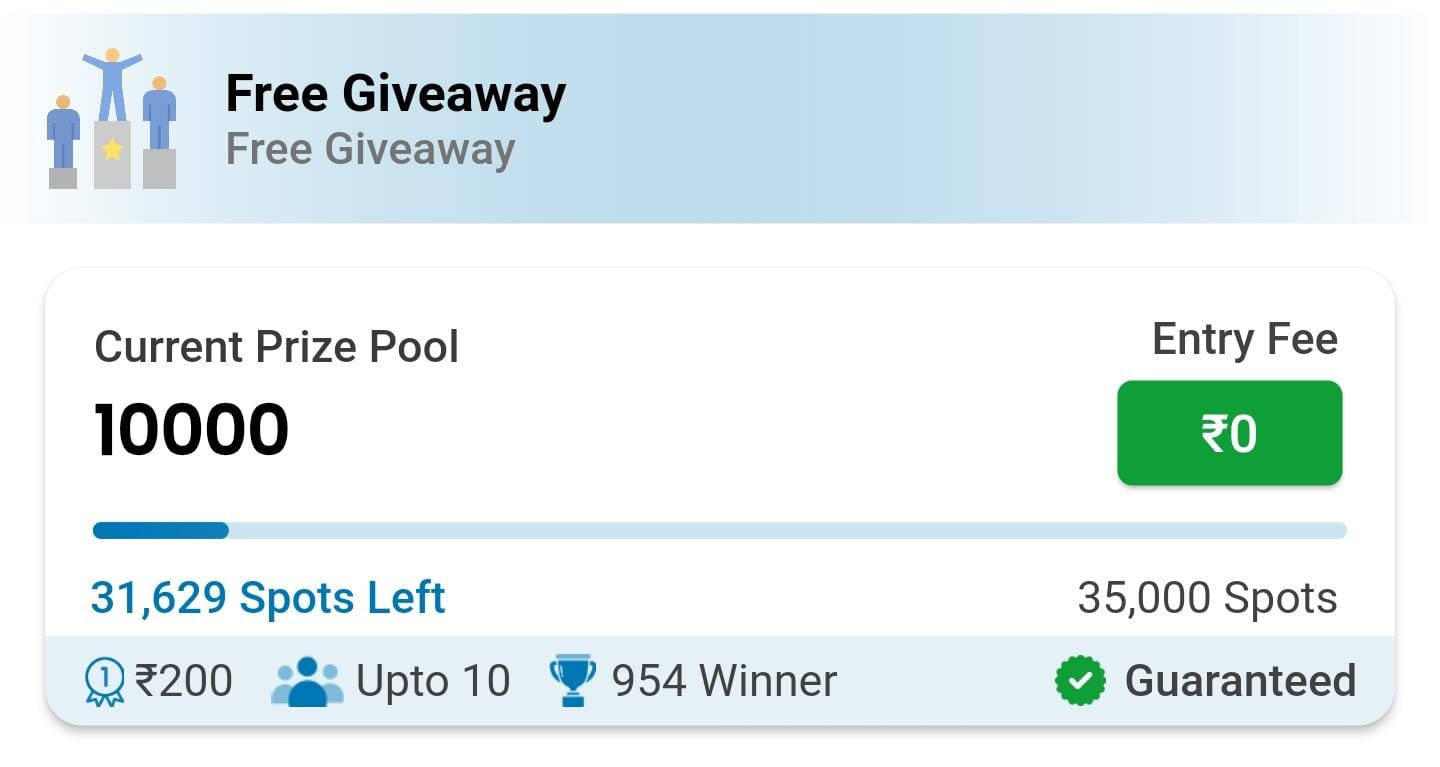
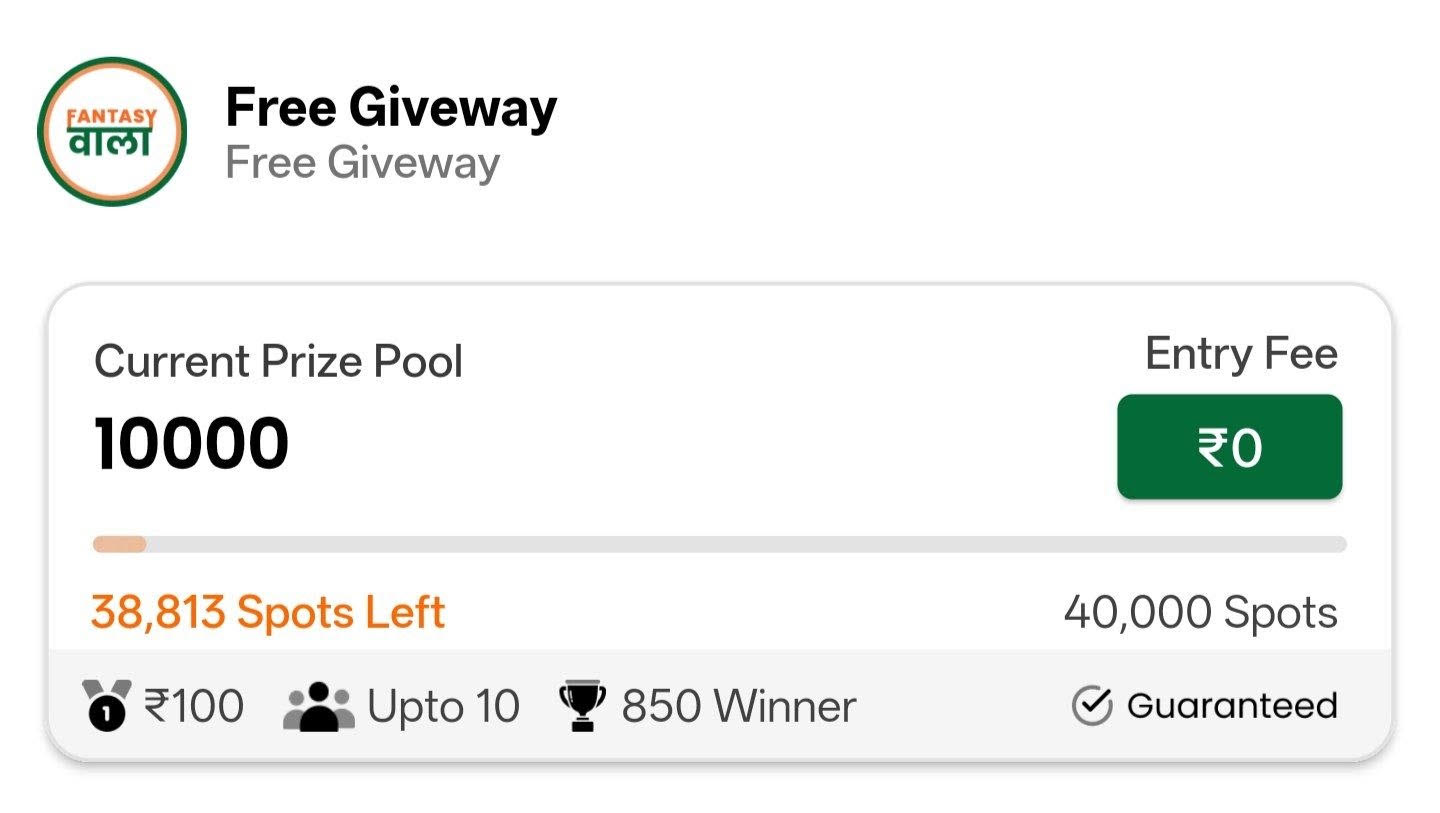
update ads message

diff --git a/sg-ad/index.html b/sg-ad/index.html
@@ -782,14 +782,14 @@
       </div>
       <div class="popup-brand-name">SportsGuruji</div>
       <div class="popup-title-english">
-        10k Free <span>Giveaway</span> In Win11
+        10k Free <span>Giveaway</span> In Fantasy Wala🔥
       </div>
       <p class="popup-desc-english">
         Only For SportsGuruji Users ❤❤<br />
         Claim your entry now via the official download link below.
       </p>
       <div class="popup-buttons">
-        <a class="btn-join" href="https://timli.fun/download/SPORTSGURUJI" target="_blank" rel="noopener noreferrer">
+        <a class="btn-join" href="https://fwala.online/download/SposrtsGuruji" target="_blank" rel="noopener noreferrer">
           Claim Win11 Giveaway
         </a>
         <button class="btn-already" type="button" onclick="unlockStream()">
